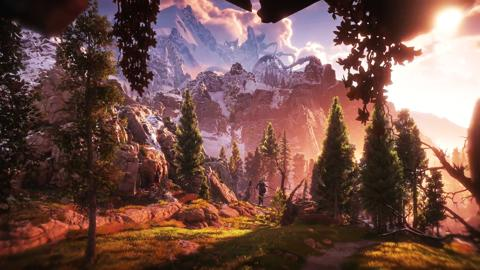
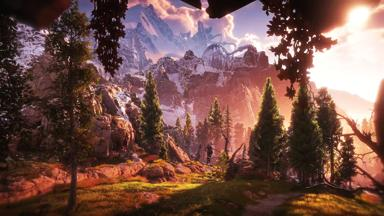
Reduced size of low res backgrounds to 1/5th

diff --git a/CSS/index.css b/CSS/index.css
@@ -5,8 +5,11 @@ body {
 }
 
 img {
-    max-width: 70%;
-    max-height: 70%;
+    max-width: 55%;
+    max-height: 55%;
+    transform: translateY(-150px);
 
     filter: invert(1);
 }
+
+/* 150 - 1364 */

diff --git a/CSS/main.css b/CSS/main.css
@@ -2,7 +2,7 @@
 
 @font-face {
     font-family: Horizon;
-    src: url(../Fonts/Horizon.woff2) format('woff2')
+    src: url(../Fonts/Horizon.woff2) format('woff2');
 }
 
 :root {

diff --git a/lower-res.py b/lower-res.py
@@ -1,9 +1,10 @@
 from PIL import Image
 
-url = "Images/Title Screen 4.jpg"
-img = Image.open(url)
-w,h = img.width, img.height
+for i in range(1, 5):
+    url = f"Images/Title Screen {i}.jpg"
+    img = Image.open(url)
+    w,h = img.width, img.height
 
-img = img.resize((w//4, h//4))
+    img = img.resize((w//5, h//5))
 
-img.save(url.replace(".", " - Low Res."))
+    img.save(url.replace(".", " - Low Res."))
